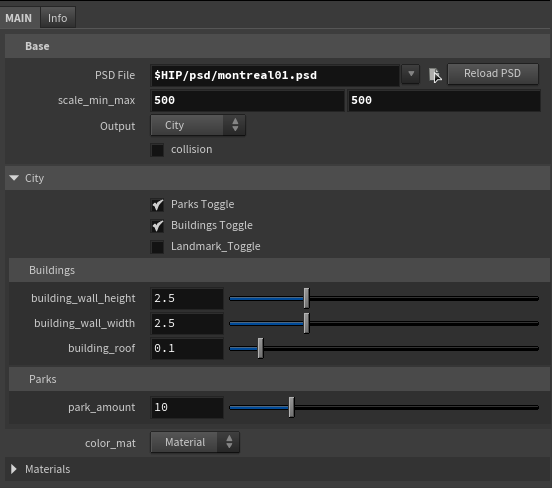
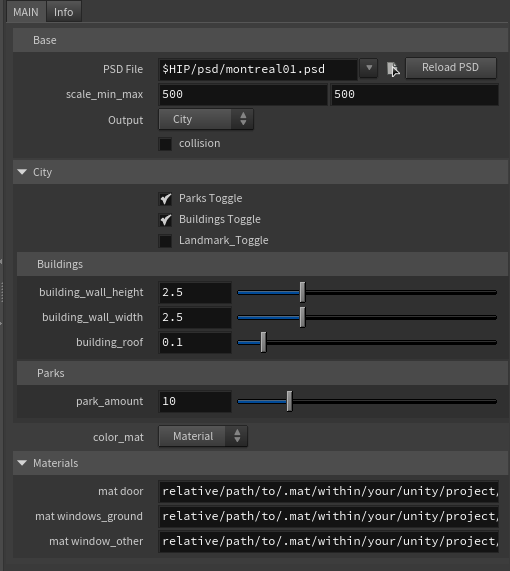
updated houdini for game dev file

diff --git a/docs/portfolio-archive/houdini-for-game-development.md b/docs/portfolio-archive/houdini-for-game-development.md
@@ -1,19 +1,83 @@
 ---
 title: Houdini for Game Development
-description:
+description: Using Houdini and Houdini engine for game development
 tags: [Houdini, Game Development, Procedural]
-cover: "/portfolio/gamedev-worldlattice-01.png"
+cover: "/portfolio/gamedev-boat-houdini-01.png"
 category:
   - Indie Game, 2
 mediaPreview: ""
 videoEmbed: ""
 ---
 
-## Sea Explorer
-Your boat moves on its own. Drag to steer, collect on contact, return to upgrade. Faster, bigger, farther—repeat.   
-Role: Develper
+<!-- 
+what this shows
+- Build demo projects demonstrating the capabilities of SideFX Labs tools
+- Learn existing tools and workflows in Houdini
+- Be a champion of our company and represent SideFX to the larger game community
+- A demonstrated passion for procedural processes and tools
+- Fluency in using Houdini for creating tools/HDAs
+- Experience using a game engine such as Unreal, Unity, or Godot
+- Basic knowledge of VEX and Python
+- Must be able to create and present content in Houdini fluently
+- Ability to work and operate collaboratively in a small team
+- Basic understanding of runtime performance requirements for created assets
+- Knowledge of visual arts theory, color, composition, and layout
+- Familiarity with UI/UX design principles
+- Knowledge of game development pipelines
+- A keen eye for visual and technical details 
+-->
 
-<img src="/portfolio/gamedev-boat-02.png" style="width:100%; height:auto;" />
+# Houdini for Game Development Workflows
+
+A collection of game-focused Houdini workflows where I used procedural tools, HDAs, and SideFX Labs workflows to convert design intent into controllable game-ready content.
+
+These projects focus on:
+- separating high-level design intent from low-level procedural generation
+- building artist-facing controls for iteration
+- using Houdini with Unity/game pipelines
+- visualizing and debugging procedural data
+
+## Sea Explorer
+
+**Role:** Technical Artist  
+**Engine:** Unity 
+
+Sea Explorer is a small resource-based game where the player explores islands, collects materials, and returns to upgrade their boat.
+
+<img src="/portfolio/gamedev-boat-02.png" style="width:100%; height:auto;">
+
+For this project, I used Houdini to create a procedural map tool for assigning and visualizing resource distribution based on designer-defined rules. Instead of manually placing every resource, the tool allowed high-level design values to drive the final layout.
+
+This made the workflow more scalable, easier to iterate, and more suitable for game design than fully manual placement.
+
+### Houdini Workflow
+
+fish:2;wood:1;rock:0;gold:0
+
+```VEX
+string resource_data = chs("resource_data");  
+// Example: "fish:2;wood:1;rock:0;gold:0"
+
+string resources[] = split(resource_data, ";");
+
+foreach (string res; resources) {
+    string res_components[] = split(res, ":");
+    string resource_name = res_components[0];
+    int amount = atoi(res_components[1]);
+
+    for (int i = 0; i < amount; i++) {
+        int selected_prim = available_prims[i];
+        setprimgroup(0, "resource_" + resource_name, selected_prim, 1, "set");
+    }
+
+    available_prims = slice(available_prims, amount, len(available_prims));
+}
+```
+
+separate high-level intent from low-level generation
+separating intention from execution complexity.
+<img src="/portfolio/gamedev-boat-houdini-01.png" style="width:100%; height:auto;">
+
 
 Houdini map tool  
 A procedural zoning tool for assigning and visualizing resource distribution based on design-driven rules. Built in Houdini to enable fast iteration over spatial layouts, allowing controlled variation and scalable map generation.  
@@ -27,9 +91,14 @@ A procedural zoning tool for assigning and visualizing resource distribution bas
 />
 
 ## Mount Roller Dispatch
-Deliver packages across two upside down cities.  
+
+**Role:** Technical Artist  
+**Engine:** Unity 
+
+Mount Roller Dispatch is a delivery game where the player moves between two upside-down cities.   
 Available on: https://sarahno.itch.io/mount-roller-dispatch  
-Role: Technical Artist  
+
+For this project, I used the **SideFX Labs Trace PSD File** tool to convert layered PSD map data into procedural city geometry inside Houdini. Roads, buildings, parks, and city regions were generated from image-based layout inputs authored in Photoshop.
 
 <iframe
   style="width: 100%; aspect-ratio: 16 / 9; height: auto;"
@@ -41,14 +110,21 @@ Role: Technical Artist
   allowfullscreen
 ></iframe>
 
-Houdini city tool  
-as the Technical Artist (Houdini) I build the tool for city generation
+**Houdini procedural city tool**
 
-<img src="/portfolio/game-dev-city-montreal-07.png" style="width:100%; height:auto;" />
+The workflow focused on separating high-level city layout design from low-level procedural generation. Instead of manually building the environment, different PSD layers defined urban elements while Houdini handled the procedural reconstruction and spatial organization.
 
-<!--
+This kept the city editable at the design level while allowing rapid procedural iteration inside Houdini.
+
+Focused on separating high-level city layout intent from low-level procedural generation.
+
 <div class="image-row2">
-  <img src="/portfolio/game-dev-city-montreal-07.png" alt="Subway lines map 02">
-  <img src="/portfolio/game-dev-city-montreal-08.png" alt="Subway lines map 03">
+  <img src="/portfolio/montreal-psd.png" alt="PSD file">
+  <img src="/portfolio/game-dev-city-montreal-08.png" alt="Generated City">
 </div>
--->
+
+
+<div class="image-row2">
+  <img src="/portfolio/game-dev-city-montreal-09.png" alt="Buildings">
+  <img src="/portfolio/game-dev-city-montreal-10.png" alt="Roads">
+</div>